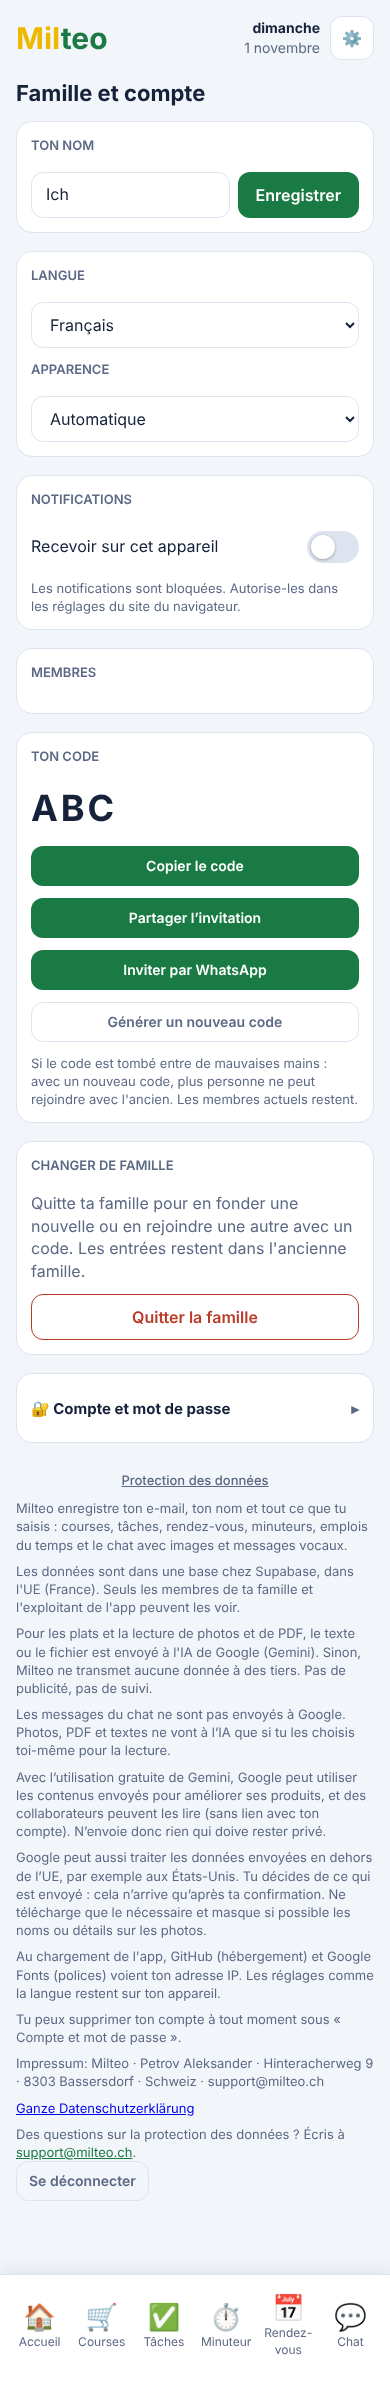
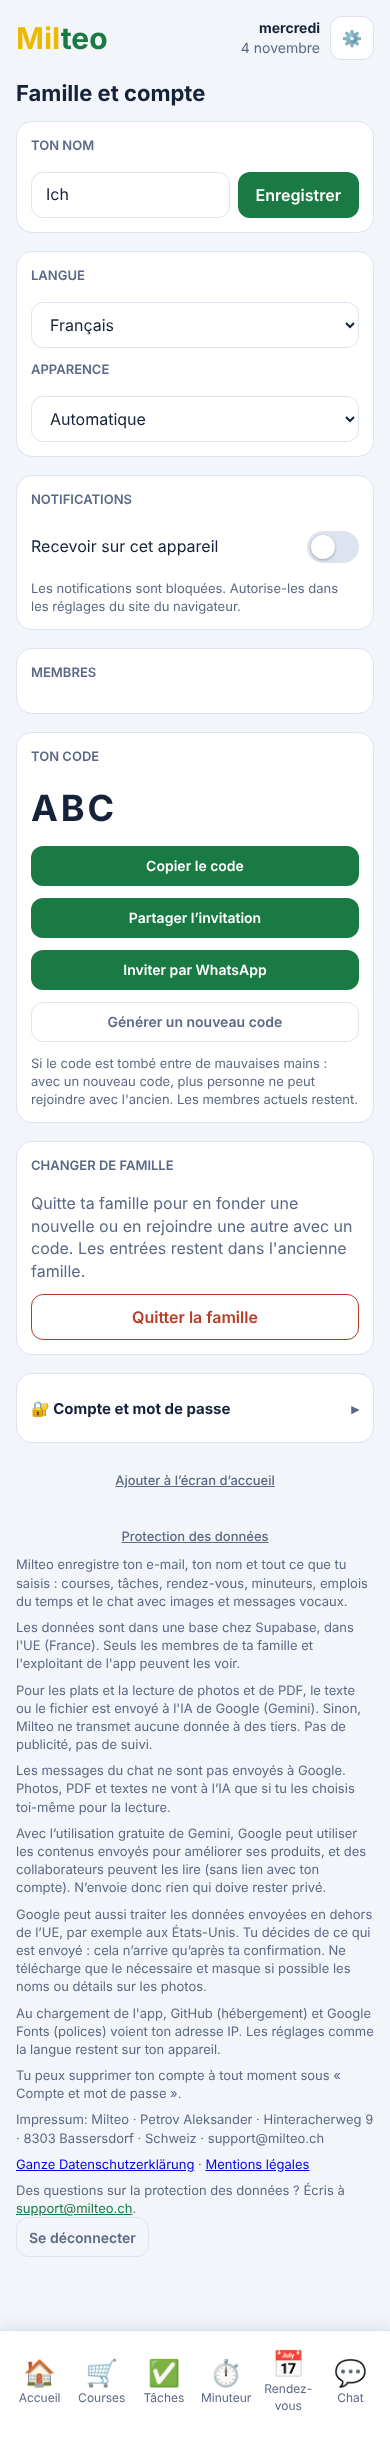
Feedback: Impressum-Seite, Zurück bei Anmeldung, einheitlich du, Preis-Info, Startbildschirm-Anleitung
Claude-Session: https://claude.ai/code/session_017jd6qMoayf2hqt6XYe68pU

diff --git a/i18n.js b/i18n.js
@@ -274,9 +274,9 @@
     ['Offene Aufgaben', 'Отворени задачи', 'Tâches ouvertes', 'Compiti aperti', 'Otvoreni zadaci', 'Detyra të hapura', 'Açık görevler', 'Open tasks'],
     ['Deine Einkaufsliste ist noch leer. Füge deinen ersten Artikel hinzu.', 'Твојата листа за купување е сè уште празна. Додај го првиот артикл.', 'Ta liste de courses est encore vide. Ajoute ton premier article.', 'La tua lista della spesa è ancora vuota. Aggiungi il primo articolo.', 'Tvoja lista za kupovinu je još prazna. Dodaj prvi artikal.', 'Lista jote e blerjeve është ende bosh. Shto artikullin e parë.', 'Alışveriş listen henüz boş. İlk ürünü ekle.', 'Your shopping list is still empty. Add your first item.'],
     ['Artikel hinzufügen', 'Додај артикл', 'Ajouter un article', 'Aggiungi articolo', 'Dodaj artikal', 'Shto artikull', 'Ürün ekle', 'Add item'],
-    ['Noch keine Aufgaben. Erstelle eine Aufgabe für eure Familie.', 'Сè уште нема задачи. Создај задача за вашето семејство.', 'Pas encore de tâches. Crée une tâche pour votre famille.', 'Ancora nessun compito. Crea un compito per la vostra famiglia.', 'Još nema zadataka. Napravi zadatak za vašu porodicu.', 'Ende nuk ka detyra. Krijo një detyrë për familjen tuaj.', 'Henüz görev yok. Ailen için bir görev oluştur.', 'No tasks yet. Create a task for your family.'],
+    ['Noch keine Aufgaben. Erstelle eine Aufgabe für deine Familie.', 'Сè уште нема задачи. Создај задача за твоето семејство.', 'Pas encore de tâches. Crée une tâche pour ta famille.', 'Ancora nessun compito. Crea un compito per la tua famiglia.', 'Još nema zadataka. Napravi zadatak za svoju porodicu.', 'Ende nuk ka detyra. Krijo një detyrë për familjen tënde.', 'Henüz görev yok. Ailen için bir görev oluştur.', 'No tasks yet. Create a task for your family.'],
     ['Aufgabe erstellen', 'Создај задача', 'Créer une tâche', 'Crea compito', 'Napravi zadatak', 'Krijo detyrë', 'Görev oluştur', 'Create task'],
-    ['Keine Termine geplant. Trage euren nächsten Termin ein.', 'Нема закажани термини. Внесете го следниот термин.', 'Aucun rendez-vous prévu. Saisissez votre prochain rendez-vous.', 'Nessun appuntamento in programma. Inserite il prossimo appuntamento.', 'Nema zakazanih termina. Unesite sledeći termin.', 'Nuk ka takime të planifikuara. Futni takimin tuaj të radhës.', 'Planlanmış randevu yok. Bir sonraki randevunuzu ekleyin.', 'No appointments planned. Add your next appointment.'],
+    ['Keine Termine geplant. Trage deinen nächsten Termin ein.', 'Нема закажани термини. Внеси го следниот термин.', 'Aucun rendez-vous prévu. Saisis ton prochain rendez-vous.', 'Nessun appuntamento in programma. Inserisci il prossimo appuntamento.', 'Nema zakazanih termina. Unesi sledeći termin.', 'Nuk ka takime të planifikuara. Shto takimin tënd të radhës.', 'Planlanmış randevu yok. Bir sonraki randevunu ekle.', 'No appointments planned. Add your next appointment.'],
     ['Termin eintragen', 'Внеси термин', 'Saisir un rendez-vous', 'Inserisci appuntamento', 'Unesi termin', 'Shto takim', 'Randevu ekle', 'Add appointment'],
     ['Kein Timer läuft. Starte einen, zum Beispiel für den Backofen.', 'Нема активен тајмер. Стартувај еден, на пример за рерната.', 'Aucun minuteur en cours. Lance-en un, par exemple pour le four.', 'Nessun timer in corso. Avviane uno, ad esempio per il forno.', 'Nijedan tajmer ne radi. Pokreni jedan, na primer za rernu.', 'Asnjë kohëmatës nuk po punon. Nise një, për shembull për furrën.', 'Çalışan zamanlayıcı yok. Bir tane başlat, örneğin fırın için.', 'No timer is running. Start one, for example for the oven.'],
     ['Timer starten', 'Стартувај тајмер', 'Lancer un minuteur', 'Avvia timer', 'Pokreni tajmer', 'Nise kohëmatësin', 'Zamanlayıcı başlat', 'Start timer'],
@@ -359,11 +359,11 @@
     ['Einladung kopiert!', 'Поканата е копирана!', 'Invitation copiée !', 'Invito copiato!', 'Pozivnica kopirana!', 'Ftesa u kopjua!', 'Davet kopyalandı!', 'Invite copied!'],
     ['Komm in unsere Familie bei Milteo! Code: {code}', 'Дојди во нашето семејство на Milteo! Код: {code}', 'Rejoins notre famille sur Milteo ! Code : {code}', 'Entra nella nostra famiglia su Milteo! Codice: {code}', 'Pridruži se našoj porodici na Milteu! Kod: {code}', 'Bashkohu familjes sonë në Milteo! Kodi: {code}', 'Milteo’da ailemize katıl! Kod: {code}', 'Join our family on Milteo! Code: {code}'],
     ['Nur Admins können einen neuen Code erzeugen und Mitglieder verwalten.', 'Само админите можат да создадат нов код и да управуваат со членовите.', 'Seuls les admins peuvent créer un nouveau code et gérer les membres.', 'Solo gli admin possono creare un nuovo codice e gestire i membri.', 'Samo admini mogu da naprave novi kod i upravljaju članovima.', 'Vetëm adminët mund të krijojnë kod të ri dhe të menaxhojnë anëtarët.', 'Yeni kodu ve üyeleri sadece yöneticiler yönetebilir.', 'Only admins can create a new code and manage members.'],
-    ['Eure Familie.', 'Вашето семејство.', 'Votre famille.', 'La vostra famiglia.', 'Vaša porodica.', 'Familja juaj.', 'Aileniz.', 'Your family.'],
+    ['Deine Familie.', 'Твоето семејство.', 'Ta famille.', 'La tua famiglia.', 'Tvoja porodica.', 'Familja jote.', 'Ailen.', 'Your family.'],
     ['Ein Plan.', 'Еден план.', 'Un plan.', 'Un piano.', 'Jedan plan.', 'Një plan.', 'Tek plan.', 'One plan.'],
     ['Einkauf, Aufgaben, Termine, Timer und Chat – alles an einem Ort, für alle auf dem Handy.', 'Купување, задачи, термини, тајмер и разговор – сè на едно место, за сите на телефон.', 'Courses, tâches, rendez-vous, minuteur et chat – tout au même endroit, pour tous sur le téléphone.', 'Spesa, compiti, appuntamenti, timer e chat – tutto in un posto, per tutti sul telefono.', 'Kupovina, zadaci, termini, tajmer i čet – sve na jednom mestu, za sve na telefonu.', 'Blerje, detyra, takime, kohëmatës dhe bisedë – gjithçka në një vend, për të gjithë në telefon.', 'Alışveriş, görevler, randevular, zamanlayıcı ve sohbet – hepsi tek yerde, herkes için telefonda.', 'Shopping, tasks, events, timer and chat – all in one place, for everyone on their phone.'],
     ['Jetzt registrieren', 'Регистрирај се сега', 'S’inscrire maintenant', 'Registrati ora', 'Registruj se sada', 'Regjistrohu tani', 'Şimdi kaydol', 'Sign up now'],
-    ['Alles, was eure Familie täglich braucht', 'Сè што му треба на вашето семејство секој ден', 'Tout ce dont votre famille a besoin au quotidien', 'Tutto ciò che serve ogni giorno alla vostra famiglia', 'Sve što vašoj porodici treba svaki dan', 'Gjithçka që i duhet familjes suaj çdo ditë', 'Ailenizin her gün ihtiyaç duyduğu her şey', 'Everything your family needs every day'],
+    ['Alles, was deine Familie täglich braucht', 'Сè што му треба на твоето семејство секој ден', 'Tout ce dont ta famille a besoin au quotidien', 'Tutto ciò che serve ogni giorno alla tua famiglia', 'Sve što tvojoj porodici treba svaki dan', 'Gjithçka që i duhet familjes sate çdo ditë', 'Ailenin her gün ihtiyaç duyduğu her şey', 'Everything your family needs every day'],
     ['Gemeinsamer Einkauf', 'Заедничко купување', 'Courses en commun', 'Spesa condivisa', 'Zajednička kupovina', 'Blerje e përbashkët', 'Ortak alışveriş', 'Shared shopping'],
     ['Eine Liste für alle. Wer etwas abhakt, sieht es sofort bei den anderen.', 'Една листа за сите. Кој ќе штиклира нешто, другите го гледаат веднаш.', 'Une liste pour tous. Ce que l’un coche, les autres le voient tout de suite.', 'Una lista per tutti. Chi spunta qualcosa, gli altri lo vedono subito.', 'Jedna lista za sve. Ko nešto označi, drugi to odmah vide.', 'Një listë për të gjithë. Kush shënon diçka, të tjerët e shohin menjëherë.', 'Herkes için tek liste. Biri bir şeyi işaretleyince diğerleri hemen görür.', 'One list for everyone. When someone ticks something off, the others see it right away.'],
     ['Aufgaben mit Verantwortlichen', 'Задачи со одговорни лица', 'Tâches avec responsables', 'Compiti con responsabili', 'Zadaci sa odgovornim osobama', 'Detyra me përgjegjës', 'Sorumlulu görevler', 'Tasks with owners'],
@@ -372,7 +372,7 @@
     ['Wochenübersicht, Orte und Wiederholungen, damit niemand einen Termin verpasst.', 'Неделен преглед, места и повторувања за никој да не пропушти термин.', 'Vue de la semaine, lieux et répétitions, pour que personne ne rate un rendez-vous.', 'Vista settimanale, luoghi e ripetizioni, così nessuno perde un appuntamento.', 'Nedeljni pregled, mesta i ponavljanja da niko ne propusti termin.', 'Pamje javore, vende dhe përsëritje, që askush të mos humbasë një takim.', 'Haftalık görünüm, yerler ve tekrarlar; kimse bir randevuyu kaçırmaz.', 'Week view, places and repeats, so nobody misses an event.'],
     ['Timer, der sich meldet', 'Тајмер што се огласува', 'Un minuteur qui sonne', 'Un timer che suona', 'Tajmer koji se javlja', 'Kohëmatës që të njofton', 'Haber veren zamanlayıcı', 'A timer that speaks up'],
     ['Kochen, Hausaufgaben, Bildschirmzeit: Der Timer meldet sich auch bei geschlossener App.', 'Готвење, домашни, време пред екран: тајмерот се огласува и кога апликацијата е затворена.', 'Cuisine, devoirs, temps d’écran : le minuteur sonne même quand l’app est fermée.', 'Cucina, compiti, tempo davanti allo schermo: il timer avvisa anche con l’app chiusa.', 'Kuvanje, domaći, vreme ispred ekrana: tajmer se javlja i kad je aplikacija zatvorena.', 'Gatim, detyra, koha para ekranit: kohëmatësi njofton edhe kur aplikacioni është mbyllur.', 'Yemek, ödev, ekran süresi: Zamanlayıcı uygulama kapalıyken de haber verir.', 'Cooking, homework, screen time: the timer alerts you even when the app is closed.'],
-    ['Nachrichten, Fotos und Sprachnachrichten nur für eure Familie.', 'Пораки, фотографии и гласовни пораки само за вашето семејство.', 'Messages, photos et messages vocaux rien que pour votre famille.', 'Messaggi, foto e messaggi vocali solo per la vostra famiglia.', 'Poruke, fotografije i glasovne poruke samo za vašu porodicu.', 'Mesazhe, foto dhe mesazhe zanore vetëm për familjen tuaj.', 'Mesajlar, fotoğraflar ve sesli mesajlar sadece ailenize özel.', 'Messages, photos and voice messages just for your family.'],
+    ['Nachrichten, Fotos und Sprachnachrichten nur für deine Familie.', 'Пораки, фотографии и гласовни пораки само за твоето семејство.', 'Messages, photos et messages vocaux rien que pour ta famille.', 'Messaggi, foto e messaggi vocali solo per la tua famiglia.', 'Poruke, fotografije i glasovne poruke samo za tvoju porodicu.', 'Mesazhe, foto dhe mesazhe zanore vetëm për familjen tënde.', 'Mesajlar, fotoğraflar ve sesli mesajlar sadece ailene özel.', 'Messages, photos and voice messages just for your family.'],
     ['Gericht rein, Zutaten raus', 'Јадење внатре, состојки надвор', 'Un plat en entrée, les ingrédients en sortie', 'Inserisci il piatto, escono gli ingredienti', 'Unesi jelo, dobiješ sastojke', 'Fut gjellën, merr përbërësit', 'Yemeği yaz, malzemeler gelsin', 'Dish in, ingredients out'],
     ['Gib ein Gericht ein – Milteo setzt die Zutaten auf die Einkaufsliste.', 'Внеси јадење – Milteo ги става состојките на листата за купување.', 'Saisis un plat – Milteo met les ingrédients sur la liste de courses.', 'Inserisci un piatto – Milteo mette gli ingredienti nella lista della spesa.', 'Unesi jelo – Milteo stavlja sastojke na listu za kupovinu.', 'Shkruaj një gjellë – Milteo i vë përbërësit në listën e blerjes.', 'Bir yemek yaz – Milteo malzemeleri alışveriş listesine ekler.', 'Enter a dish – Milteo puts the ingredients on the shopping list.'],
     ['Gemacht für Familien', 'Направено за семејства', 'Conçu pour les familles', 'Fatto per le famiglie', 'Napravljeno za porodice', 'Bërë për familjet', 'Ailelere göre yapıldı', 'Made for families'],
@@ -416,6 +416,25 @@
     ['Lade deine Familie ein, damit ihr alles gemeinsam nutzt.', 'Покани го семејството за да сѐ користите заедно.', 'Invite ta famille pour tout utiliser ensemble.', 'Invita la tua famiglia per usare tutto insieme.', 'Pozovi porodicu da sve koristite zajedno.', 'Fto familjen që ta përdorni gjithçka së bashku.', 'Her şeyi birlikte kullanmak için ailene davet gönder.', 'Invite your family so you can use everything together.'],
     ['Per WhatsApp einladen', 'Покани преку WhatsApp', 'Inviter par WhatsApp', 'Invita su WhatsApp', 'Pozovi preko WhatsApp-a', 'Fto përmes WhatsApp', 'WhatsApp ile davet et', 'Invite via WhatsApp'],
     ['Anders teilen', 'Сподели поинаку', 'Partager autrement', 'Condividi in altro modo', 'Podeli na drugi način', 'Ndaje ndryshe', 'Başka şekilde paylaş', 'Share another way'],
+    ['← Zurück', '← Назад', '← Retour', '← Indietro', '← Nazad', '← Kthehu', '← Geri', '← Back'],
+    ['Impressum', 'Импресум', 'Mentions légales', 'Impronta editoriale', 'Impresum', 'Impressum', 'Künye', 'Legal notice'],
+    ['So kommt Milteo auf deinen Startbildschirm', 'Како да го додадеш Milteo на почетниот екран', 'Ajouter Milteo à ton écran d’accueil', 'Come mettere Milteo sulla schermata Home', 'Kako da dodaš Milteo na početni ekran', 'Si ta shtosh Milteo te ekrani kryesor', 'Milteo’yu ana ekrana ekleme', 'How to add Milteo to your home screen'],
+    ['Android (Chrome)', 'Android (Chrome)', 'Android (Chrome)', 'Android (Chrome)', 'Android (Chrome)', 'Android (Chrome)', 'Android (Chrome)', 'Android (Chrome)'],
+    ['iPhone (Safari)', 'iPhone (Safari)', 'iPhone (Safari)', 'iPhone (Safari)', 'iPhone (Safari)', 'iPhone (Safari)', 'iPhone (Safari)', 'iPhone (Safari)'],
+    ['Öffne www.milteo.ch in Chrome.', 'Отвори го www.milteo.ch во Chrome.', 'Ouvre www.milteo.ch dans Chrome.', 'Apri www.milteo.ch in Chrome.', 'Otvori www.milteo.ch u Chrome-u.', 'Hap www.milteo.ch në Chrome.', 'www.milteo.ch adresini Chrome’da aç.', 'Open www.milteo.ch in Chrome.'],
+    ['Tippe oben rechts auf die drei Punkte ⋮.', 'Допри ги трите точки ⋮ горе десно.', 'Appuie en haut à droite sur les trois points ⋮.', 'Tocca i tre puntini ⋮ in alto a destra.', 'Dodirni tri tačke ⋮ gore desno.', 'Prek tri pikat ⋮ lart djathtas.', 'Sağ üstteki üç noktaya ⋮ dokun.', 'Tap the three dots ⋮ at the top right.'],
+    ['Wähle «Zum Startbildschirm hinzufügen» oder «App installieren».', 'Избери «Додај на почетен екран» или «Инсталирај апликација».', 'Choisis « Ajouter à l’écran d’accueil » ou « Installer l’application ».', 'Scegli «Aggiungi a schermata Home» o «Installa app».', 'Izaberi «Dodaj na početni ekran» ili «Instaliraj aplikaciju».', 'Zgjidh «Shto te ekrani kryesor» ose «Instalo aplikacionin».', '«Ana ekrana ekle» veya «Uygulamayı yükle» seçeneğini seç.', 'Choose «Add to Home screen» or «Install app».'],
+    ['Bestätige mit «Installieren». Fertig: Milteo liegt jetzt wie eine App auf deinem Handy.', 'Потврди со «Инсталирај». Готово: Milteo сега стои како апликација на твојот телефон.', 'Confirme avec « Installer ». C’est fait : Milteo est maintenant sur ton téléphone comme une app.', 'Conferma con «Installa». Fatto: Milteo è ora sul telefono come un’app.', 'Potvrdi sa «Instaliraj». Gotovo: Milteo je sada na telefonu kao aplikacija.', 'Konfirmo me «Instalo». Gati: Milteo tani është në telefon si aplikacion.', '«Yükle» ile onayla. Tamam: Milteo artık telefonunda bir uygulama gibi duruyor.', 'Confirm with «Install». Done: Milteo now sits on your phone like an app.'],
+    ['Öffne www.milteo.ch in Safari (nicht in Chrome).', 'Отвори го www.milteo.ch во Safari (не во Chrome).', 'Ouvre www.milteo.ch dans Safari (pas dans Chrome).', 'Apri www.milteo.ch in Safari (non in Chrome).', 'Otvori www.milteo.ch u Safariju (ne u Chrome-u).', 'Hap www.milteo.ch në Safari (jo në Chrome).', 'www.milteo.ch adresini Safari’de aç (Chrome’da değil).', 'Open www.milteo.ch in Safari (not in Chrome).'],
+    ['Tippe unten auf das Teilen-Symbol (Quadrat mit Pfeil nach oben).', 'Допри го симболот за споделување долу (квадрат со стрелка нагоре).', 'Appuie en bas sur l’icône de partage (carré avec une flèche vers le haut).', 'Tocca in basso l’icona Condividi (quadrato con freccia verso l’alto).', 'Dodirni dole simbol za deljenje (kvadrat sa strelicom nagore).', 'Prek poshtë ikonën e ndarjes (katror me shigjetë lart).', 'Altta paylaş simgesine dokun (yukarı oklu kare).', 'Tap the share icon at the bottom (square with an arrow pointing up).'],
+    ['Scrolle nach unten und wähle «Zum Home-Bildschirm».', 'Лизгај надолу и избери «Додај на почетен екран».', 'Fais défiler vers le bas et choisis « Sur l’écran d’accueil ».', 'Scorri in basso e scegli «Aggiungi alla schermata Home».', 'Skroluj nadole i izaberi «Dodaj na početni ekran».', 'Zhvendosu poshtë dhe zgjidh «Shto te ekrani kryesor».', 'Aşağı kaydır ve «Ana Ekrana Ekle» seçeneğini seç.', 'Scroll down and choose «Add to Home Screen».'],
+    ['Tippe oben rechts auf «Hinzufügen». Fertig.', 'Допри «Додај» горе десно. Готово.', 'Appuie en haut à droite sur « Ajouter ». C’est fait.', 'Tocca «Aggiungi» in alto a destra. Fatto.', 'Dodirni «Dodaj» gore desno. Gotovo.', 'Prek «Shto» lart djathtas. Gati.', 'Sağ üstte «Ekle»ye dokun. Tamam.', 'Tap «Add» at the top right. Done.'],
+    ['Auf dem iPhone funktionieren Mitteilungen nur, wenn Milteo auf dem Home-Bildschirm liegt.', 'На iPhone известувањата работат само ако Milteo е на почетниот екран.', 'Sur iPhone, les notifications ne fonctionnent que si Milteo est sur l’écran d’accueil.', 'Su iPhone le notifiche funzionano solo se Milteo è sulla schermata Home.', 'Na iPhone-u obaveštenja rade samo ako je Milteo na početnom ekranu.', 'Në iPhone njoftimet funksionojnë vetëm nëse Milteo është te ekrani kryesor.', 'iPhone’da bildirimler yalnızca Milteo ana ekrandaysa çalışır.', 'On iPhone, notifications only work if Milteo is on the home screen.'],
+    ['Was kostet Milteo?', 'Колку чини Milteo?', 'Combien coûte Milteo ?', 'Quanto costa Milteo?', 'Koliko košta Milteo?', 'Sa kushton Milteo?', 'Milteo ne kadar?', 'What does Milteo cost?'],
+    ['Im Moment fällt für dich nichts an. Milteo wird von einer einzelnen Person betrieben, ohne Werbung und ohne Verkauf von Daten. Später kann ein optionales Abo dazukommen. Du wirst vorher informiert, und es wird nichts abgebucht, ohne dass du zustimmst.', 'Моментално за тебе нема трошоци. Milteo го води едно лице, без реклами и без продажба на податоци. Подоцна може да се додаде опционална претплата. Ќе бидеш известен однапред и ништо нема да се наплати без твоја согласност.', 'Pour l’instant, rien à payer. Milteo est géré par une seule personne, sans publicité et sans vente de données. Un abonnement optionnel pourra s’ajouter plus tard. Tu seras prévenu à l’avance, et rien ne sera débité sans ton accord.', 'Per ora non c’è nulla da pagare. Milteo è gestito da una sola persona, senza pubblicità e senza vendita di dati. In futuro potrebbe aggiungersi un abbonamento facoltativo. Sarai informato prima e non verrà addebitato nulla senza il tuo consenso.', 'Trenutno za tebe nema troškova. Milteo vodi jedna osoba, bez reklama i bez prodaje podataka. Kasnije se može dodati opciona pretplata. Bićeš unapred obavešten i ništa se neće naplatiti bez tvoje saglasnosti.', 'Tani për ty nuk ka kosto. Milteo drejtohet nga një person, pa reklama dhe pa shitje të dhënash. Më vonë mund të shtohet një abonim opsional. Do të njoftohesh paraprakisht dhe asgjë nuk tërhiqet pa pëlqimin tënd.', 'Şu anda senin için bir ücret yok. Milteo tek bir kişi tarafından işletiliyor, reklamsız ve veri satışı olmadan. İleride isteğe bağlı bir abonelik eklenebilir. Önceden bilgilendirilirsin ve onayın olmadan hiçbir şey tahsil edilmez.', 'Right now there is nothing to pay. Milteo is run by a single person, with no ads and no selling of data. An optional subscription may be added later. You will be told beforehand, and nothing is charged without your consent.'],
+    ['Zum Startbildschirm hinzufügen', 'Додај на почетен екран', 'Ajouter à l’écran d’accueil', 'Aggiungi alla schermata Home', 'Dodaj na početni ekran', 'Shto te ekrani kryesor', 'Ana ekrana ekle', 'Add to home screen'],
+    ['Tippe oben rechts auf die drei Punkte ⋮, wähle «Zum Startbildschirm hinzufügen» oder «App installieren» und bestätige mit «Installieren».', 'Допри ги трите точки ⋮ горе десно, избери «Додај на почетен екран» или «Инсталирај апликација» и потврди со «Инсталирај».', 'Appuie en haut à droite sur les trois points ⋮, choisis « Ajouter à l’écran d’accueil » ou « Installer l’application » et confirme avec « Installer ».', 'Tocca i tre puntini ⋮ in alto a destra, scegli «Aggiungi a schermata Home» o «Installa app» e conferma con «Installa».', 'Dodirni tri tačke ⋮ gore desno, izaberi «Dodaj na početni ekran» ili «Instaliraj aplikaciju» i potvrdi sa «Instaliraj».', 'Prek tri pikat ⋮ lart djathtas, zgjidh «Shto te ekrani kryesor» ose «Instalo aplikacionin» dhe konfirmo me «Instalo».', 'Sağ üstteki üç noktaya ⋮ dokun, «Ana ekrana ekle» veya «Uygulamayı yükle» seçeneğini seç ve «Yükle» ile onayla.', 'Tap the three dots ⋮ at the top right, choose «Add to Home screen» or «Install app» and confirm with «Install».'],
+    ['Öffne Milteo in Safari, tippe unten auf das Teilen-Symbol (Quadrat mit Pfeil nach oben), wähle «Zum Home-Bildschirm» und tippe auf «Hinzufügen».', 'Отвори го Milteo во Safari, допри го симболот за споделување долу (квадрат со стрелка нагоре), избери «Додај на почетен екран» и допри «Додај».', 'Ouvre Milteo dans Safari, appuie en bas sur l’icône de partage (carré avec une flèche vers le haut), choisis « Sur l’écran d’accueil » et appuie sur « Ajouter ».', 'Apri Milteo in Safari, tocca in basso l’icona Condividi (quadrato con freccia verso l’alto), scegli «Aggiungi alla schermata Home» e tocca «Aggiungi».', 'Otvori Milteo u Safariju, dodirni dole simbol za deljenje (kvadrat sa strelicom nagore), izaberi «Dodaj na početni ekran» i dodirni «Dodaj».', 'Hap Milteo në Safari, prek poshtë ikonën e ndarjes (katror me shigjetë lart), zgjidh «Shto te ekrani kryesor» dhe prek «Shto».', 'Milteo’yu Safari’de aç, altta paylaş simgesine dokun (yukarı oklu kare), «Ana Ekrana Ekle»yi seç ve «Ekle»ye dokun.', 'Open Milteo in Safari, tap the share icon at the bottom (square with an arrow pointing up), choose «Add to Home Screen» and tap «Add».'],
     ['__end__', '', '', '', '', '', '', '']
   ];
   R.pop();

diff --git a/index.html b/index.html
@@ -11,11 +11,11 @@
 <meta name="apple-mobile-web-app-title" content="Milteo">
 <meta name="apple-mobile-web-app-status-bar-style" content="default">
 <title>Milteo – der Familienplaner für Einkauf, Aufgaben und Termine</title>
-<meta name="description" content="Milteo bringt eure Familie zusammen: gemeinsamer Einkauf, Aufgaben, Termine, Timer und Chat in einer App. In 8 Sprachen, direkt auf dem Handy.">
+<meta name="description" content="Milteo bringt deine Familie zusammen: gemeinsamer Einkauf, Aufgaben, Termine, Timer und Chat in einer App. In 8 Sprachen, direkt auf dem Handy.">
 <link rel="canonical" href="https://milteo.ch/">
 <meta property="og:type" content="website">
 <meta property="og:site_name" content="Milteo">
-<meta property="og:title" content="Milteo – Eure Familie. Ein Plan.">
+<meta property="og:title" content="Milteo – Deine Familie. Ein Plan.">
 <meta property="og:description" content="Gemeinsamer Einkauf, Aufgaben, Termine, Timer und Chat – alles an einem Ort, für die ganze Familie.">
 <meta property="og:url" content="https://milteo.ch/">
 <meta property="og:image" content="https://milteo.ch/milteo-video-poster.jpg">
@@ -316,6 +316,8 @@ input.switch:focus-visible { outline-offset: 3px; }
 .ld-final { text-align: center; background: var(--surface); border: 1.5px solid var(--line); border-radius: 24px; padding: 36px 20px; margin: 20px 0 30px; }
 .ld-final h2 { font-size: clamp(24px, 5vw, 34px); }
 .ld-final .ld-cta { justify-content: center; }
+.ld-ol { margin: 0; padding-left: 20px; color: var(--muted); display: grid; gap: 6px; }
+.ld-note { color: var(--muted); margin: 14px 0 0; }
 .ld-foot { border-top: 1.5px solid var(--line); padding: 22px 0 40px; color: var(--muted); font-size: 14px; display: grid; gap: 10px; }
 .ld-foot a { color: var(--mil); font-weight: 600; }
 .ld-foot details p { margin: 8px 0 0; }
@@ -341,7 +343,7 @@ input.switch:focus-visible { outline-offset: 3px; }
     </div>
     <section class="ld-hero">
       <div>
-        <h1>Eure Familie.<br>Ein Plan.</h1>
+        <h1>Deine Familie.<br>Ein Plan.</h1>
         <p class="ld-sub">Einkauf, Aufgaben, Termine, Timer und Chat – alles an einem Ort, für alle auf dem Handy.</p>
         <div class="ld-cta">
           <button class="btn" id="ld-reg" type="button">Jetzt registrieren</button>
@@ -351,13 +353,13 @@ input.switch:focus-visible { outline-offset: 3px; }
       <div class="ld-phone"><video controls playsinline preload="none" poster="milteo-video-poster.jpg" aria-label="So sieht Milteo aus"><source src="milteo-video.mp4" type="video/mp4"></video></div>
     </section>
     <section class="ld-sec">
-      <h2>Alles, was eure Familie täglich braucht</h2>
+      <h2>Alles, was deine Familie täglich braucht</h2>
       <div class="ld-grid">
         <div class="ld-card"><span class="em" aria-hidden="true">🛒</span><h3>Gemeinsamer Einkauf</h3><p>Eine Liste für alle. Wer etwas abhakt, sieht es sofort bei den anderen.</p></div>
         <div class="ld-card"><span class="em" aria-hidden="true">✅</span><h3>Aufgaben mit Verantwortlichen</h3><p>Verteile Aufgaben, setze Fristen und Wiederholungen – nichts geht mehr vergessen.</p></div>
         <div class="ld-card"><span class="em" aria-hidden="true">📅</span><h3>Termine für alle</h3><p>Wochenübersicht, Orte und Wiederholungen, damit niemand einen Termin verpasst.</p></div>
         <div class="ld-card"><span class="em" aria-hidden="true">⏱</span><h3>Timer, der sich meldet</h3><p>Kochen, Hausaufgaben, Bildschirmzeit: Der Timer meldet sich auch bei geschlossener App.</p></div>
-        <div class="ld-card"><span class="em" aria-hidden="true">💬</span><h3>Familien-Chat</h3><p>Nachrichten, Fotos und Sprachnachrichten nur für eure Familie.</p></div>
+        <div class="ld-card"><span class="em" aria-hidden="true">💬</span><h3>Familien-Chat</h3><p>Nachrichten, Fotos und Sprachnachrichten nur für deine Familie.</p></div>
         <div class="ld-card"><span class="em" aria-hidden="true">🍝</span><h3>Gericht rein, Zutaten raus</h3><p>Gib ein Gericht ein – Milteo setzt die Zutaten auf die Einkaufsliste.</p></div>
       </div>
     </section>
@@ -379,6 +381,26 @@ input.switch:focus-visible { outline-offset: 3px; }
         <div class="ld-card"><h3>Loslegen</h3><p>Zum Startbildschirm hinzufügen und gemeinsam planen.</p></div>
       </div>
     </section>
+    <section class="ld-sec" id="ld-install">
+      <h2>So kommt Milteo auf deinen Startbildschirm</h2>
+      <div class="ld-grid two">
+        <div class="ld-card"><h3>Android (Chrome)</h3><ol class="ld-ol">
+          <li>Öffne www.milteo.ch in Chrome.</li>
+          <li>Tippe oben rechts auf die drei Punkte ⋮.</li>
+          <li>Wähle «Zum Startbildschirm hinzufügen» oder «App installieren».</li>
+          <li>Bestätige mit «Installieren». Fertig: Milteo liegt jetzt wie eine App auf deinem Handy.</li></ol></div>
+        <div class="ld-card"><h3>iPhone (Safari)</h3><ol class="ld-ol">
+          <li>Öffne www.milteo.ch in Safari (nicht in Chrome).</li>
+          <li>Tippe unten auf das Teilen-Symbol (Quadrat mit Pfeil nach oben).</li>
+          <li>Scrolle nach unten und wähle «Zum Home-Bildschirm».</li>
+          <li>Tippe oben rechts auf «Hinzufügen». Fertig.</li></ol></div>
+      </div>
+      <p class="ld-note">Auf dem iPhone funktionieren Mitteilungen nur, wenn Milteo auf dem Home-Bildschirm liegt.</p>
+    </section>
+    <section class="ld-sec">
+      <h2>Was kostet Milteo?</h2>
+      <p class="ld-note" style="margin-top:0">Im Moment fällt für dich nichts an. Milteo wird von einer einzelnen Person betrieben, ohne Werbung und ohne Verkauf von Daten. Später kann ein optionales Abo dazukommen. Du wirst vorher informiert, und es wird nichts abgebucht, ohne dass du zustimmst.</p>
+    </section>
     <section class="ld-final">
       <h2>Bereit für weniger Chaos im Alltag?</h2>
       <div class="ld-cta">
@@ -388,6 +410,7 @@ input.switch:focus-visible { outline-offset: 3px; }
     </section>
     <footer class="ld-foot">
       <div><span>Fragen? Schreib uns:</span> <a href="mailto:support@milteo.ch">support@milteo.ch</a></div>
+      <div><a href="impressum.html" style="font-size:14px">Impressum</a></div>
       <div data-nosnippet><button class="link" id="ld-priv-btn" type="button" aria-expanded="false" aria-controls="ld-priv" style="font-size:14px; font-weight:500; padding:4px 0;">Datenschutz</button><div id="ld-priv" hidden></div></div>
     </footer>
   </div>
@@ -395,6 +418,7 @@ input.switch:focus-visible { outline-offset: 3px; }
 
 <div class="screen" id="screen-auth">
   <div class="narrow">
+    <button class="link" id="auth-back" type="button" hidden style="padding:4px 0 10px">← Zurück</button>
     <div class="brand big"><div class="word"><span class="a">Mil</span><span class="b">teo</span></div></div>
     <h1 id="auth-title">Anmelden</h1>
     <p class="lead" id="auth-lead">Einkauf, Aufgaben, Timer und Termine.</p>
@@ -689,6 +713,16 @@ input.switch:focus-visible { outline-offset: 3px; }
           <button class="btn danger small" id="btn-del" type="button">Konto löschen</button>
         </div>
       </div>
+      <div id="fold-install" style="margin:18px 0 0; text-align:center;">
+        <button class="link" id="install-btn" type="button" aria-expanded="false" aria-controls="install-body" style="font-size:13px; font-weight:500; color:var(--muted);">Zum Startbildschirm hinzufügen</button>
+        <div id="install-body" hidden style="text-align:left; display:none; gap:8px;">
+          <p class="hint"><b>Android (Chrome)</b></p>
+          <p class="hint">Tippe oben rechts auf die drei Punkte ⋮, wähle «Zum Startbildschirm hinzufügen» oder «App installieren» und bestätige mit «Installieren».</p>
+          <p class="hint"><b>iPhone (Safari)</b></p>
+          <p class="hint">Öffne Milteo in Safari, tippe unten auf das Teilen-Symbol (Quadrat mit Pfeil nach oben), wähle «Zum Home-Bildschirm» und tippe auf «Hinzufügen».</p>
+          <p class="hint">Auf dem iPhone funktionieren Mitteilungen nur, wenn Milteo auf dem Home-Bildschirm liegt.</p>
+        </div>
+      </div>
       <div id="fold-priv" data-nosnippet style="margin-top:18px; text-align:center;">
         <button class="link" id="priv-btn" type="button" aria-expanded="false" aria-controls="priv-body" style="font-size:13px; font-weight:500; color:var(--muted);">Datenschutz</button>
         <div id="priv-body" hidden style="text-align:left; display:none; gap:8px;">
@@ -701,7 +735,7 @@ input.switch:focus-visible { outline-offset: 3px; }
           <p class="hint">Beim Laden der App sehen GitHub (Hosting) und Google Fonts (Schriftarten) deine IP-Adresse. Einstellungen wie die Sprache bleiben auf deinem Gerät.</p>
           <p class="hint">Du kannst dein Konto jederzeit unter «Konto &amp; Passwort» löschen.</p>
           <p class="hint">Impressum: Milteo · Petrov Aleksander · Hinteracherweg 9 · 8303 Bassersdorf · Schweiz · support@milteo.ch</p>
-          <p class="hint"><a href="datenschutz.html" target="_blank" rel="noopener">Ganze Datenschutzerklärung</a></p>
+          <p class="hint"><a href="datenschutz.html" target="_blank" rel="noopener">Ganze Datenschutzerklärung</a> · <a href="impressum.html" target="_blank" rel="noopener">Impressum</a></p>
           <p class="hint">Fragen zum Datenschutz? Schreib an <a href="mailto:support@milteo.ch" style="color:var(--mil)">support@milteo.ch</a>.</p>
         </div>
       </div>
@@ -1262,13 +1296,18 @@ input.switch:focus-visible { outline-offset: 3px; }
     }
     box.hidden = !open; $('ld-priv-btn').setAttribute('aria-expanded', String(open));
   };
+  $('install-btn').onclick = () => { const b = $('install-body'), o = b.style.display === 'none'; b.style.display = o ? 'grid' : 'none'; b.hidden = !o; $('install-btn').setAttribute('aria-expanded', String(o)); };
   $('priv-btn').onclick = () => { const b = $('priv-body'), o = b.style.display === 'none'; b.style.display = o ? 'grid' : 'none'; b.hidden = !o; $('priv-btn').setAttribute('aria-expanded', String(o)); };
-  function goAuth(mode) { landingOff = true; showScreen('auth'); setMode(mode); window.scrollTo(0, 0); }
+  let authFromLanding = false;
+  function goAuth(mode) { landingOff = true; authFromLanding = true; showScreen('auth'); setMode(mode); $('auth-back').hidden = false; try { history.pushState({ milteoAuth: 1 }, ''); } catch (_) {} window.scrollTo(0, 0); }
+  function backToLanding() { landingOff = false; authFromLanding = false; $('auth-back').hidden = true; showScreen('landing'); window.scrollTo(0, 0); }
+  $('auth-back').onclick = () => { if (history.state && history.state.milteoAuth) history.back(); else backToLanding(); };
+  window.addEventListener('popstate', () => { if (authFromLanding) backToLanding(); });
   [['ld-reg', 'register'], ['ld-reg2', 'register'], ['ld-login', 'login'], ['ld-login2', 'login'], ['ld-login-top', 'login']].forEach(([id, m]) => { $(id).onclick = () => goAuth(m); });
   function route(session) {
     if (!session) { appReady = false; try { localStorage.removeItem('milteo_fam'); } catch (_) {} const lw = wantLanding(); showScreen(lw ? 'landing' : 'auth'); if (!lw) { try { if (sessionStorage.getItem('milteo_invite')) setMode('register'); } catch (_) {} } return; }
     if (recoveryMode) { showScreen('reset'); return; }
-    myId = session.user.id; myEmail = session.user.email || '';
+    authFromLanding = false; myId = session.user.id; myEmail = session.user.email || '';
     myName = session.user.user_metadata?.name || session.user.email.split('@')[0];
     const nameInput = document.getElementById('in-myname');
     if (nameInput) nameInput.value = myName;
@@ -1917,7 +1956,7 @@ input.switch:focus-visible { outline-offset: 3px; }
       items = items.map((e, n) => [e, n]).sort((x, y) => todoCmp(x[0], y[0]) || (x[1] - y[1])).map(x => x[0]);
       if (allCount && !items.length) { el.innerHTML = `<div class="empty">${esc(T('Keine Aufgaben in diesem Filter.'))}</div>`; return; }
     }
-    if (!items.length) { el.innerHTML = !loadedOnce ? '' : kind === 'shop' ? emptyHtml('Deine Einkaufsliste ist noch leer. Füge deinen ersten Artikel hinzu.', 'Artikel hinzufügen', 'shop') : emptyHtml('Noch keine Aufgaben. Erstelle eine Aufgabe für eure Familie.', 'Aufgabe erstellen', 'todos'); return; }
+    if (!items.length) { el.innerHTML = !loadedOnce ? '' : kind === 'shop' ? emptyHtml('Deine Einkaufsliste ist noch leer. Füge deinen ersten Artikel hinzu.', 'Artikel hinzufügen', 'shop') : emptyHtml('Noch keine Aufgaben. Erstelle eine Aufgabe für deine Familie.', 'Aufgabe erstellen', 'todos'); return; }
     let lastCat = null; const grouping = kind === 'shop';
     if (grouping) {
       const ci = (e) => e.data.type === 'dish' ? -1 : CATS.findIndex(c => c[0] === catOf(e));
@@ -1966,7 +2005,7 @@ input.switch:focus-visible { outline-offset: 3px; }
     const items = entries.filter(e => e.kind === 'events' && e.data.type !== 'timetable')
       .sort((a, b) => ((a.data.date || '') + (a.data.time || '')).localeCompare((b.data.date || '') + (b.data.time || '')));
     { const c = $('cnt-events'); if (c) c.textContent = items.length ? '(' + items.length + ')' : ''; }
-    if (!items.length) { el.innerHTML = loadedOnce ? emptyHtml('Keine Termine geplant. Trage euren nächsten Termin ein.', 'Termin eintragen', 'events') : ''; return; }
+    if (!items.length) { el.innerHTML = loadedOnce ? emptyHtml('Keine Termine geplant. Trage deinen nächsten Termin ein.', 'Termin eintragen', 'events') : ''; return; }
     el.innerHTML = '<ul class="list">' + items.map(e => {
       const d = e.data.date ? new Date(e.data.date + 'T00:00').toLocaleDateString(I18N.loc(), { weekday: 'short', day: 'numeric', month: 'short' }) : '';
       const rmv = (e.data.remind !== null && e.data.remind !== undefined && e.data.remind !== '') ? String(e.data.remind) : '';

diff --git a/impressum.html b/impressum.html
@@ -1,0 +1,16 @@
+<!doctype html>
+<html lang="de"><head><meta charset="utf-8"><meta name="viewport" content="width=device-width,initial-scale=1">
+<meta name="robots" content="noindex"><title>Impressum – Milteo</title>
+<style>body{font:16px/1.55 system-ui,-apple-system,Segoe UI,Roboto,sans-serif;max-width:720px;margin:0 auto;padding:24px 16px 60px;color:#16203a;background:#f2f5fa}h1{font-size:26px}h2{font-size:18px;margin-top:28px}a{color:#1f8a4c}</style></head><body>
+<h1>Impressum</h1>
+
+<h2>Betreiber</h2>
+<p>Milteo Familienplaner<br>Petrov Aleksander<br>Hinteracherweg 9<br>8303 Bassersdorf<br>Schweiz</p>
+
+<h2>Kontakt</h2>
+<p>E-Mail: <a href="mailto:support@milteo.ch">support@milteo.ch</a></p>
+
+<h2>Datenschutz</h2>
+<p><a href="datenschutz.html">Datenschutzerklärung</a></p>
+<p><a href="./">Zurück zu Milteo</a></p>
+</body></html>

diff --git a/sw.js b/sw.js
@@ -1,4 +1,4 @@
-const CACHE = 'milteo-v8';
+const CACHE = 'milteo-v9';
 const SHELL = ['./', 'index.html', 'i18n.js', 'manifest.json', 'icon-192.png', 'icon-512.png', 'badge-96.png'];
 
 self.addEventListener('install', (e) => {

diff --git a/tests/test_startseite.py b/tests/test_startseite.py
@@ -32,6 +32,13 @@ with sync_playwright() as p:
     if shots: pg.screenshot(path=shots + '/land_m.png', full_page=True)
     pg.click('#ld-reg'); pg.wait_for_timeout(200)
     check('«Jetzt registrieren» -> Konto erstellen', vis(pg, 'screen-auth') and 'Registrieren' in pg.inner_text('#auth-submit') and not vis(pg, 'screen-landing'))
+    check('Zurück-Knopf sichtbar nach Registrieren', pg.is_visible('#auth-back'))
+    pg.click('#auth-back'); pg.wait_for_timeout(200)
+    check('Zurück -> Startseite', vis(pg, 'screen-landing') and not vis(pg, 'screen-auth'))
+    pg.click('#ld-login'); pg.wait_for_timeout(200); pg.go_back(); pg.wait_for_timeout(200)
+    check('Browser-Zurück -> Startseite', vis(pg, 'screen-landing') and not errs)
+    check('Impressum-Link, Preis- und Startbildschirm-Anleitung', pg.locator('#screen-landing a[href="impressum.html"]').count() == 1 and 'Was kostet Milteo?' in pg.inner_text('#screen-landing') and 'Zum Home-Bildschirm' in pg.inner_text('#ld-install'))
+    check('Einheitlich «du» auf Startseite', 'eure' not in pg.inner_text('#screen-landing').lower() and 'Deine Familie' in pg.inner_text('h1'))
     pg, errs = mk(b)
     pg.click('#ld-login'); pg.wait_for_timeout(200)
     check('«Anmelden» -> Anmeldeformular', vis(pg, 'screen-auth') and pg.inner_text('#auth-submit') == 'Anmelden')
